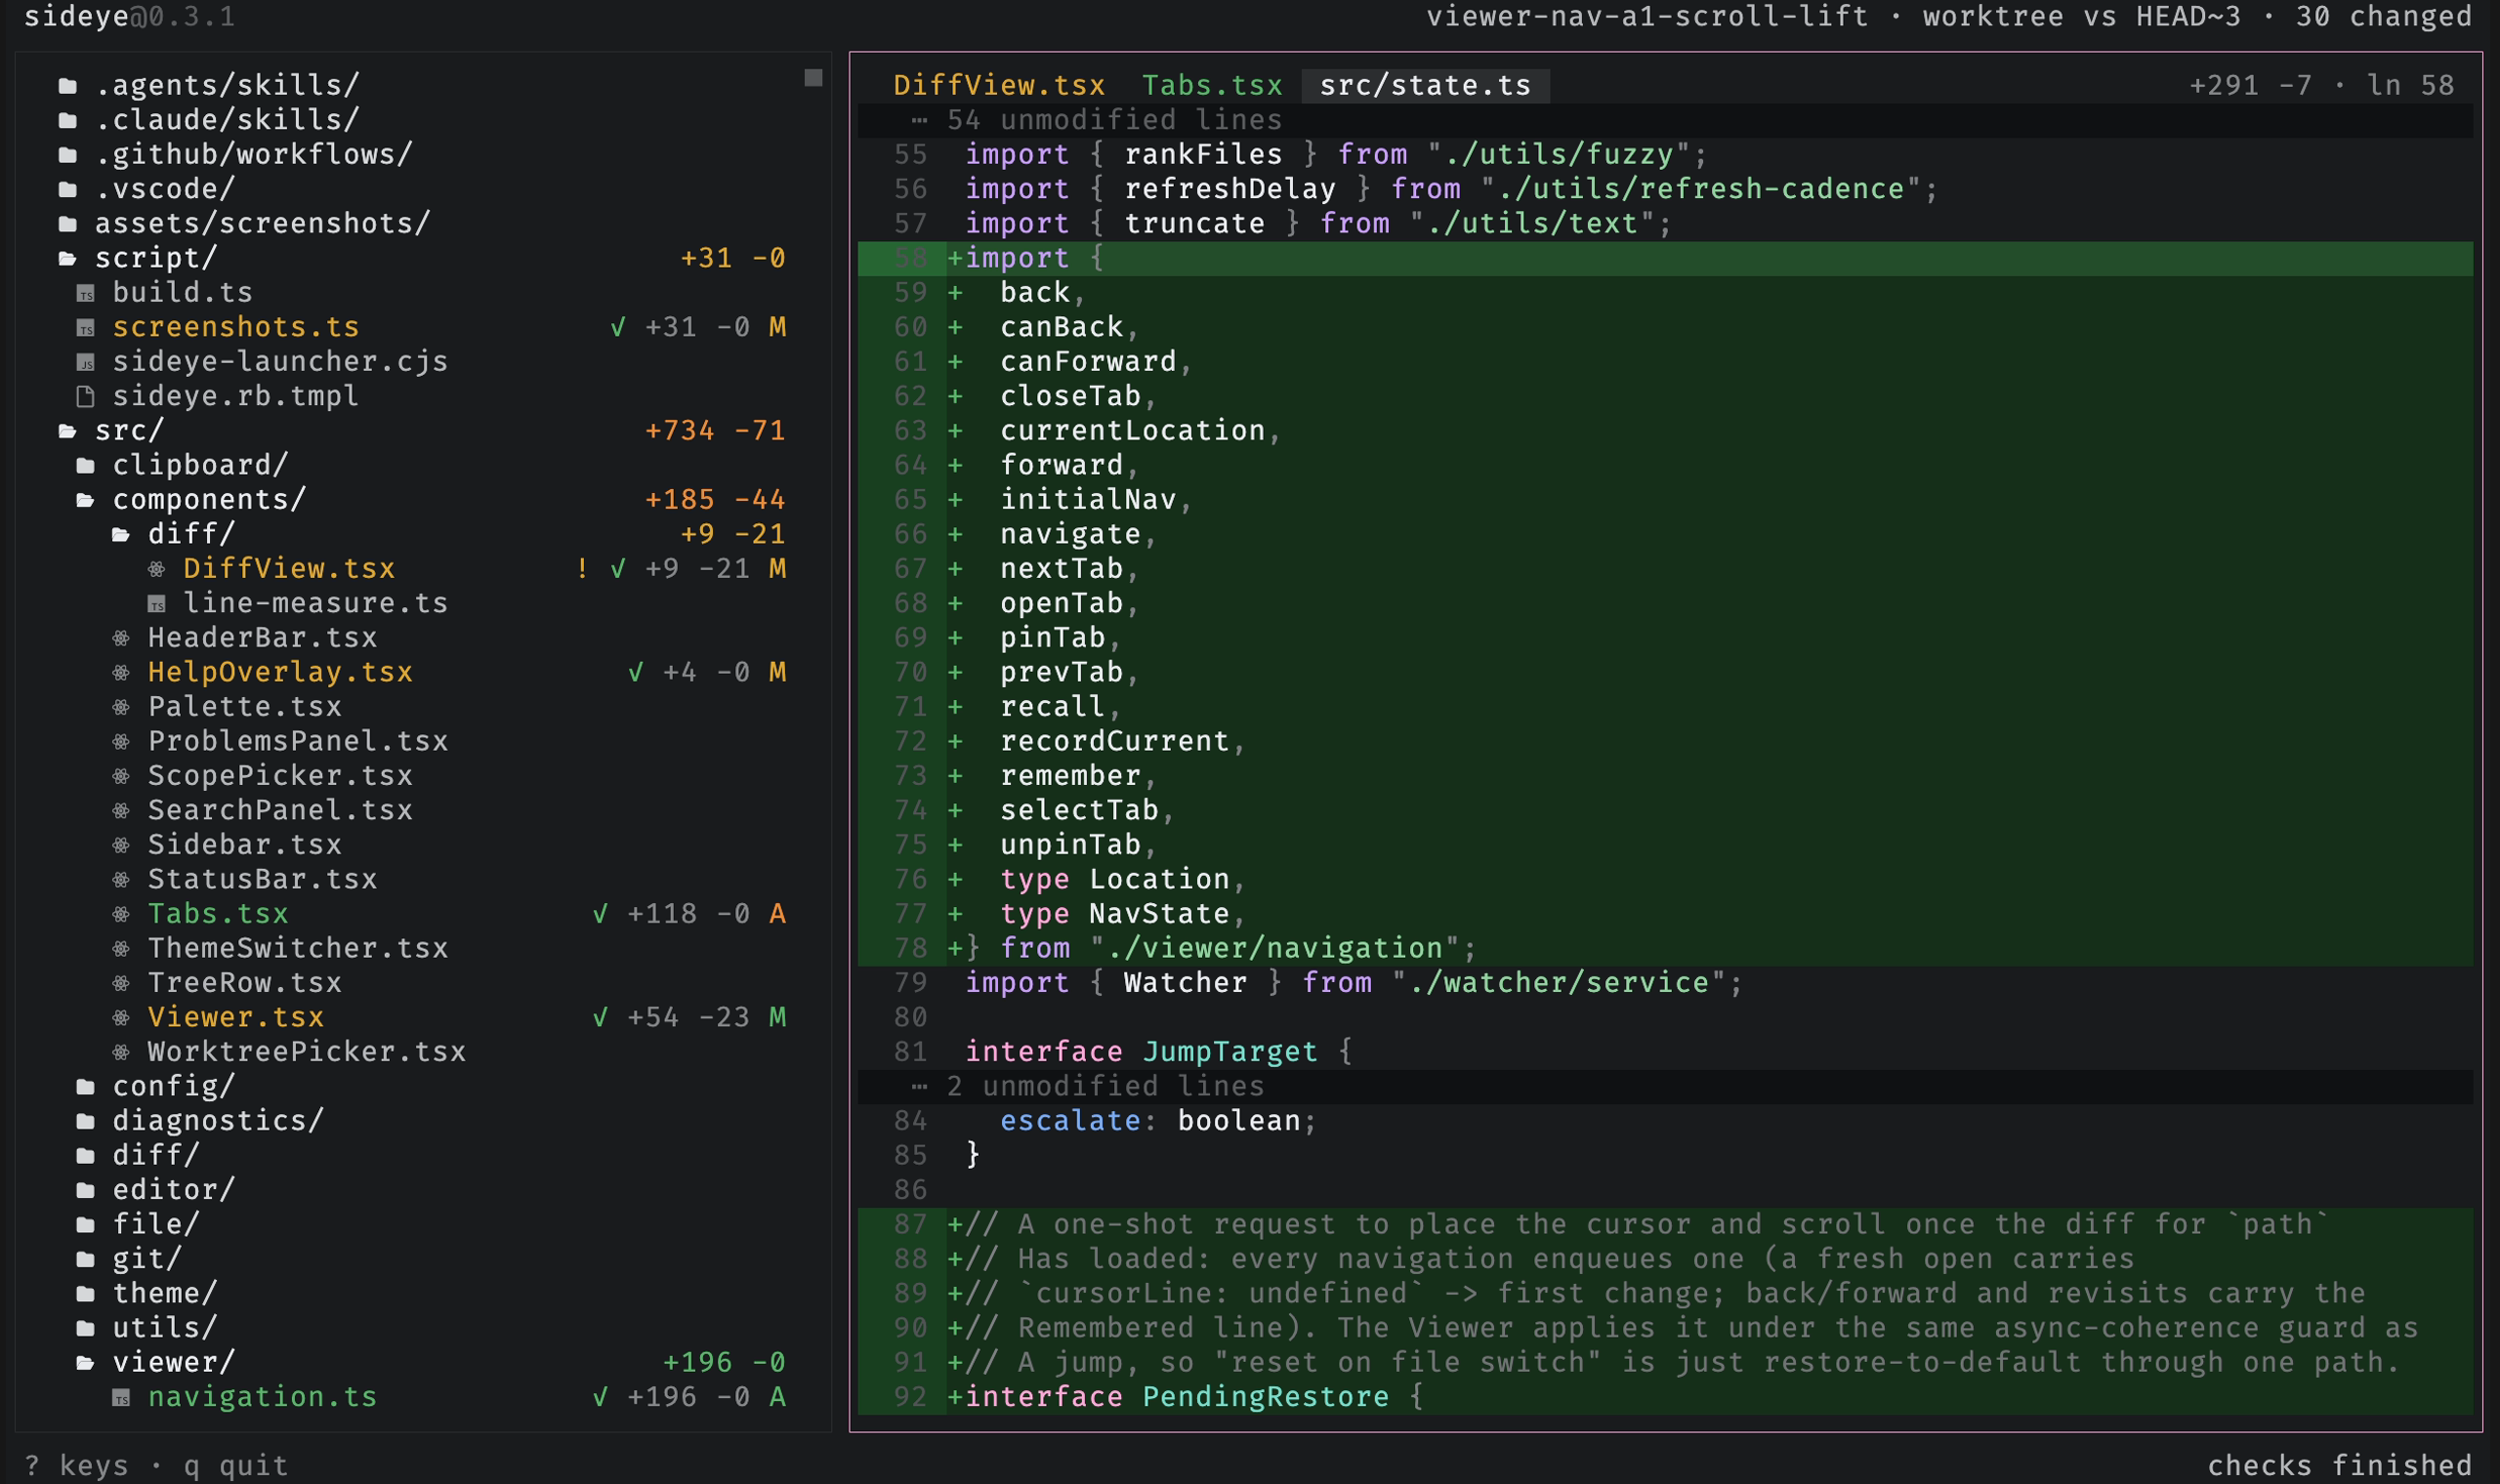
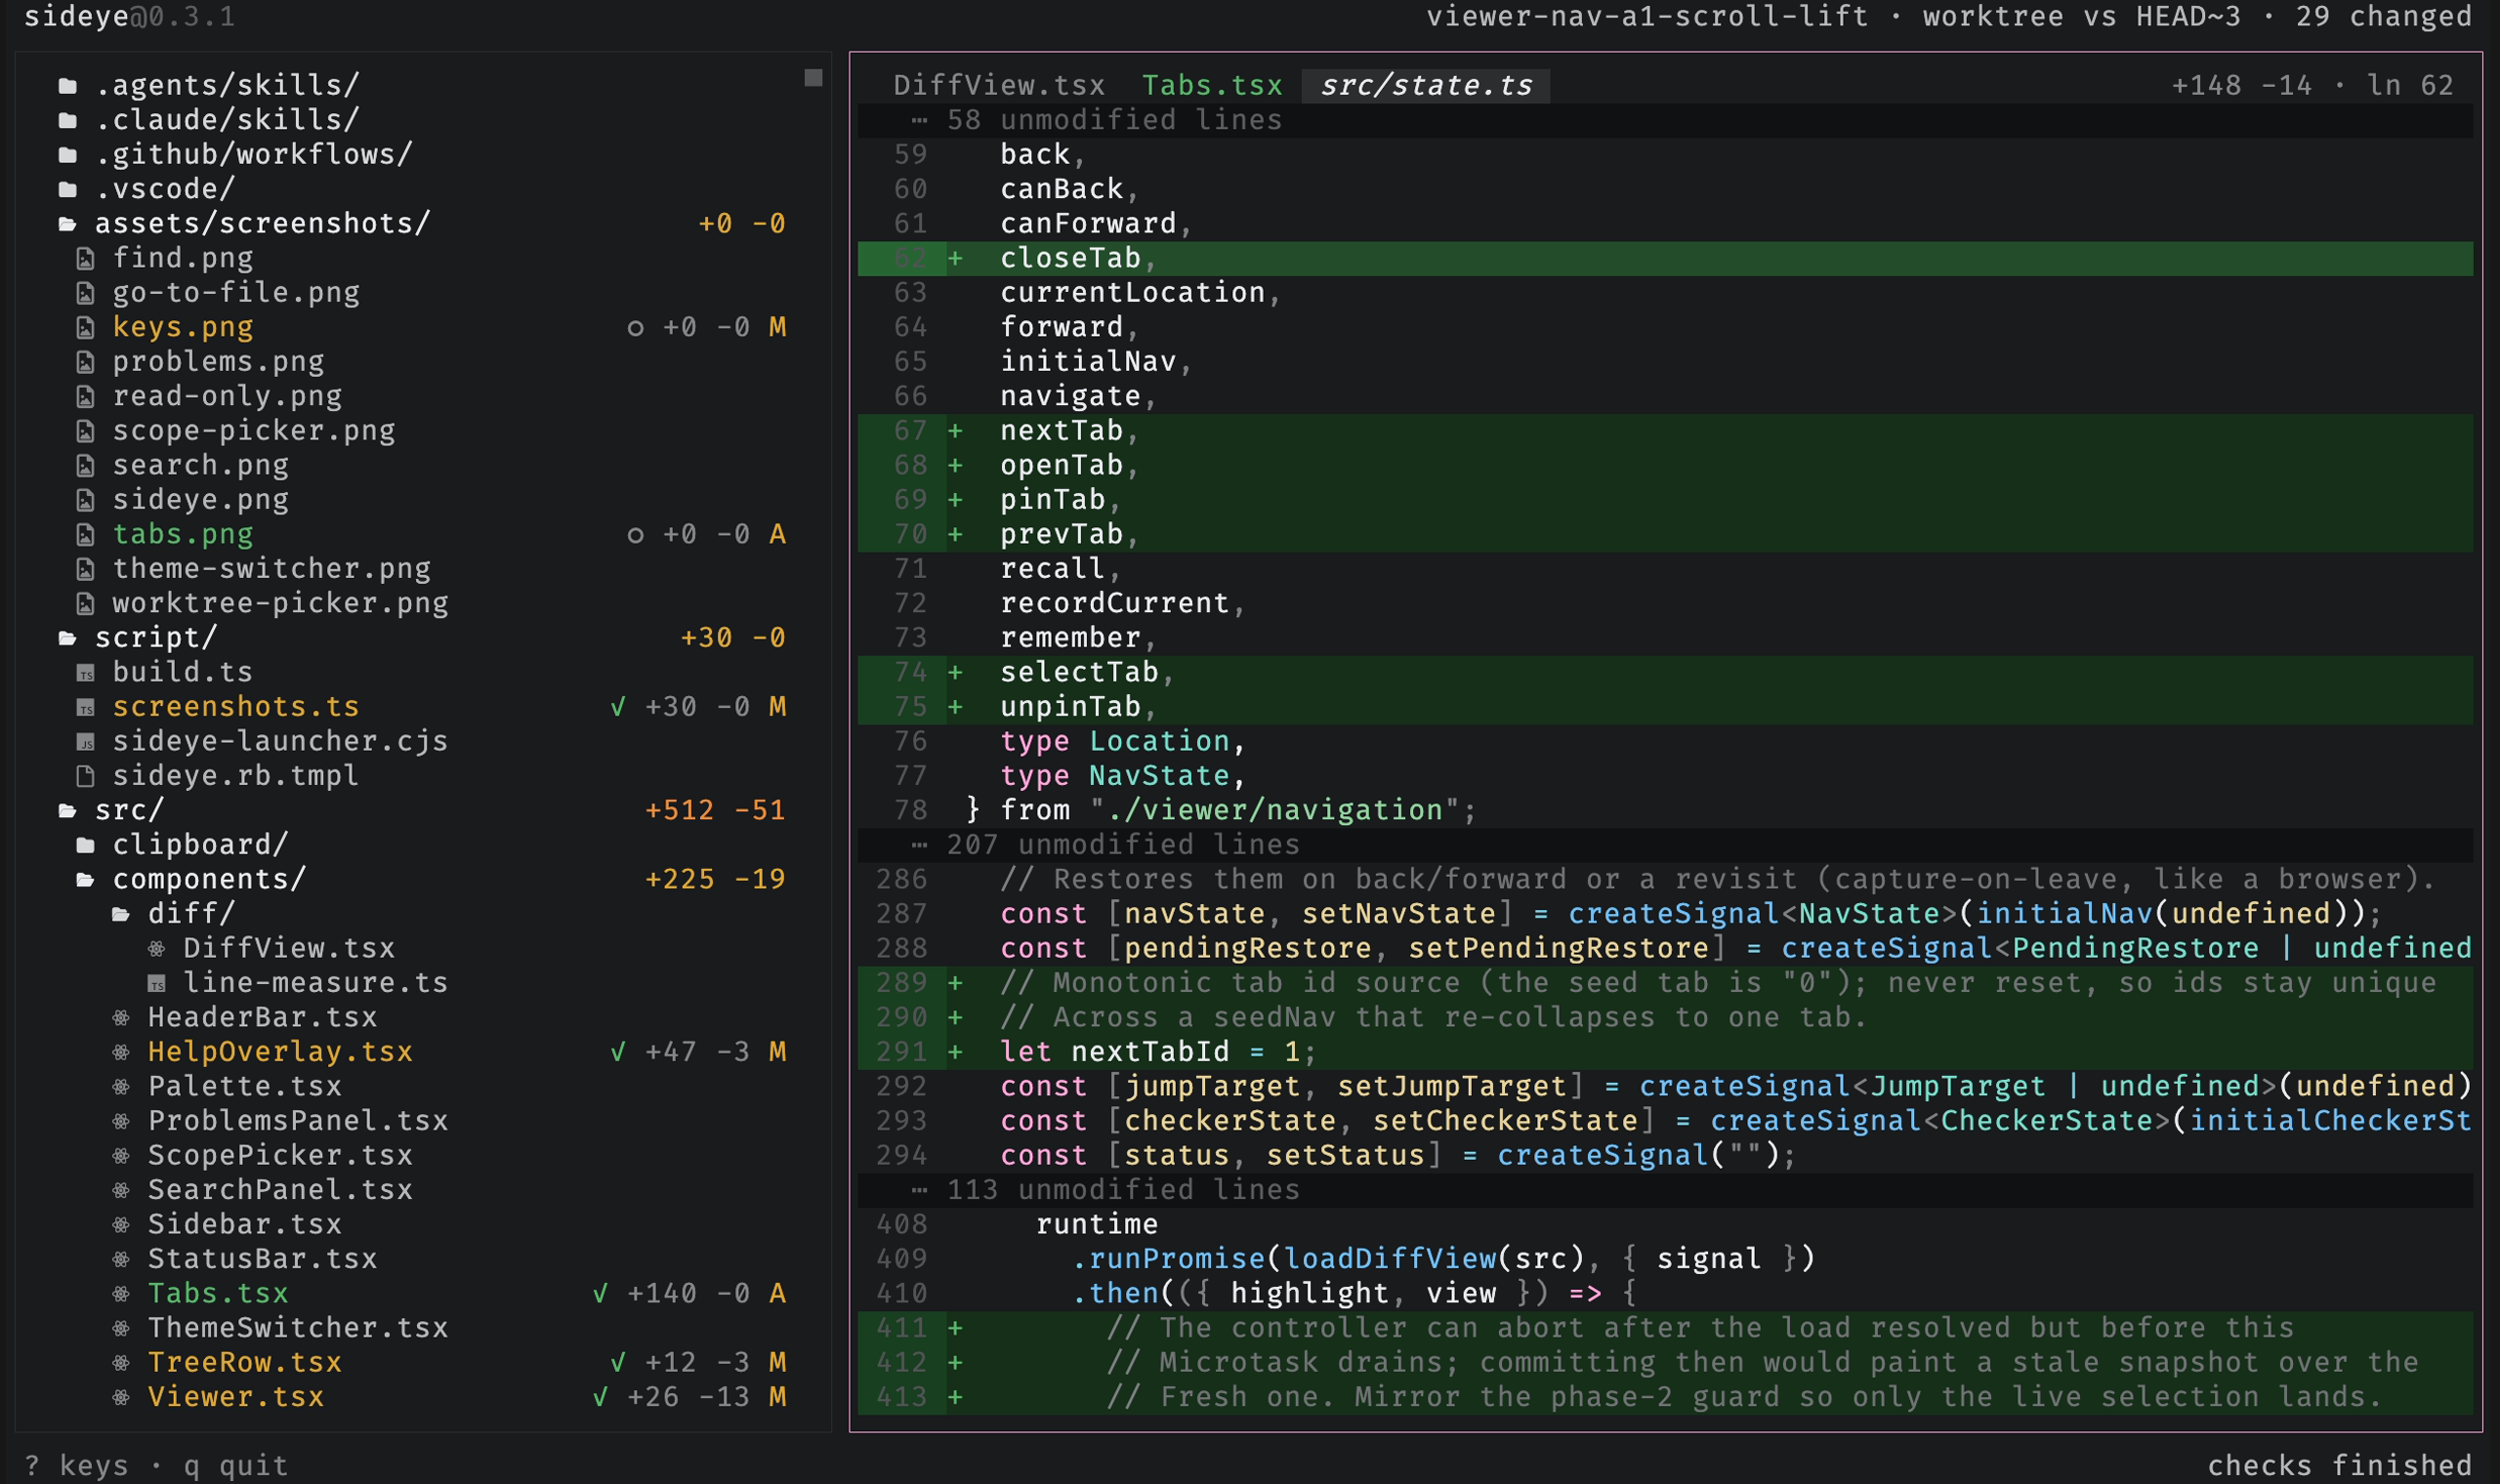
feat(viewer): ✨ double-click to pin, italic preview tab
Double-clicking a tab in the strip or a file in the tree now pins it as
a tab (pin-only, the mouse equivalent of ctrl-t's toggle). OpenTUI has
no double-click event, so a small shared guard detects it from
successive mouse-downs. The ephemeral preview tab now reads italic
instead of dim: italic is the standard ephemeral-tab cue and frees the
color channel so a previewed changed file still shows its diff tint.
Verified the italic at the rendered-cell level (a render test reads the
frame buffer's attributes) alongside the pin behavior, and regenerated
the tabs screenshot.

diff --git a/test/tabs.render.test.tsx b/test/tabs.render.test.tsx
@@ -2,6 +2,7 @@ import { describe, expect, test } from "bun:test";
 import { rmSync, writeFileSync } from "node:fs";
 import { join } from "node:path";
 
+import { createTextAttributes } from "@opentui/core";
 import { createMockMouse } from "@opentui/core/testing";
 import { testRender } from "@opentui/solid";
 
@@ -138,6 +139,138 @@ describe("tabs strip", () => {
       await mouse.doubleClick(diffCol + 1, diffRow);
       await renderOnce();
       expect(renderer.getSelection()).not.toBeNull();
+    } finally {
+      renderer.destroy();
+      rmSync(repoRoot, { force: true, recursive: true });
+    }
+  }, 20_000);
+
+  test("double-clicking a preview tab pins it", async () => {
+    const body = Array.from({ length: 20 }, (_, index) => `const line${index + 1} = ${index + 1}`);
+    const repoRoot = createFixtureRepo("sideye-tabpin-", {
+      "package.json": `${JSON.stringify({ scripts: { lint: "exit 0", typecheck: "exit 0" } })}\n`,
+      "src/a.ts": `${body.join("\n")}\n`,
+      "src/b.ts": `${body.join("\n")}\n`,
+    });
+    writeFileSync(
+      join(repoRoot, "src", "a.ts"),
+      `const aChanged = true\n${body.slice(1).join("\n")}\n`,
+    );
+    writeFileSync(
+      join(repoRoot, "src", "b.ts"),
+      `const bChanged = true\n${body.slice(1).join("\n")}\n`,
+    );
+
+    const model = await loadModel(repoRoot, { kind: "all", ref: "HEAD" });
+    seedState(model, { kind: "all", ref: "HEAD" });
+    const { renderer, renderOnce, captureCharFrame, mockInput, mockMouse } = await testRender(
+      () => <App />,
+      { height: 30, width: 120 },
+    );
+    const settleUntil = makeSettleUntil({ captureCharFrame, renderOnce });
+
+    try {
+      await settleUntil("diff view", (frame) => /ln \d/.test(frame), 5);
+      // Pin a.ts, then preview b.ts so the strip shows [a.ts][src/b.ts].
+      state.selectFile("src/a.ts");
+      mockInput.pressKey("t", { ctrl: true });
+      state.selectFile("src/b.ts");
+      const frame = await settleUntil("two tabs", (f) => f.includes("src/b.ts"));
+
+      const bTab = () => state.tabItems().find((tab) => tab.path === "src/b.ts");
+      expect(bTab()?.preview).toBe(true);
+
+      // Double-click the active preview tab's label to pin it.
+      const lines = frame.split("\n");
+      const rowIndex = lines.findIndex((line) => line.includes("src/b.ts"));
+      const column = lines[rowIndex].indexOf("src/b.ts");
+      await mockMouse.doubleClick(column + 1, rowIndex);
+      await renderOnce();
+
+      expect(bTab()?.preview).toBe(false);
+    } finally {
+      renderer.destroy();
+      rmSync(repoRoot, { force: true, recursive: true });
+    }
+  }, 20_000);
+
+  test("double-clicking a file in the tree pins it as a tab", async () => {
+    const repoRoot = createFixtureRepo("sideye-treepin-", {
+      "package.json": `${JSON.stringify({ scripts: { lint: "exit 0", typecheck: "exit 0" } })}\n`,
+      "src/a.ts": "const a = 1\n",
+      "src/b.ts": "const b = 1\n",
+    });
+    writeFileSync(join(repoRoot, "src", "b.ts"), "const bChanged = 1\n");
+
+    const model = await loadModel(repoRoot, { kind: "all", ref: "HEAD" });
+    seedState(model, { kind: "all", ref: "HEAD" });
+    const { renderer, renderOnce, captureCharFrame, mockMouse } = await testRender(() => <App />, {
+      height: 24,
+      width: 100,
+    });
+    const settleUntil = makeSettleUntil({ captureCharFrame, renderOnce });
+
+    try {
+      const frame = await settleUntil("tree", (f) => f.includes("b.ts"));
+
+      // Locate the b.ts row in the sidebar (left of the pane border).
+      const sidebar = frame.split("\n").map((line) => line.split("││")[0]);
+      const rowIndex = sidebar.findIndex((line) => line.includes("b.ts"));
+      const column = sidebar[rowIndex].indexOf("b.ts");
+      expect(column).toBeGreaterThan(0);
+
+      await mockMouse.doubleClick(column + 1, rowIndex);
+      await settleUntil("b.ts pinned", () => {
+        const tab = state.tabItems().find((item) => item.path === "src/b.ts");
+        return tab !== undefined && !tab.preview;
+      });
+
+      const tab = state.tabItems().find((item) => item.path === "src/b.ts");
+      expect(tab?.preview).toBe(false);
+    } finally {
+      renderer.destroy();
+      rmSync(repoRoot, { force: true, recursive: true });
+    }
+  }, 20_000);
+
+  test("the preview tab renders italic, pinned tabs upright", async () => {
+    const repoRoot = createFixtureRepo("sideye-tabitalic-", {
+      "package.json": `${JSON.stringify({ scripts: { lint: "exit 0", typecheck: "exit 0" } })}\n`,
+      "src/a.ts": "const a = 1\n",
+      "src/b.ts": "const b = 1\n",
+    });
+    writeFileSync(join(repoRoot, "src", "a.ts"), "const aChanged = 1\n");
+    writeFileSync(join(repoRoot, "src", "b.ts"), "const bChanged = 1\n");
+
+    const model = await loadModel(repoRoot, { kind: "all", ref: "HEAD" });
+    seedState(model, { kind: "all", ref: "HEAD" });
+    const { renderer, renderOnce, captureCharFrame, mockInput } = await testRender(() => <App />, {
+      height: 24,
+      width: 100,
+    });
+    const settleUntil = makeSettleUntil({ captureCharFrame, renderOnce });
+
+    try {
+      await settleUntil("diff view", (frame) => /ln \d/.test(frame), 5);
+      // Pin a.ts, preview b.ts -> strip shows the pinned a.ts and the preview b.ts.
+      state.selectFile("src/a.ts");
+      mockInput.pressKey("t", { ctrl: true });
+      state.selectFile("src/b.ts");
+      const frame = await settleUntil("two tabs", (f) => f.includes("src/b.ts"));
+      await renderOnce();
+
+      // Read the actual rendered cell attributes (what the terminal paints).
+      const italic = createTextAttributes({ italic: true });
+      const buffer = renderer.currentRenderBuffer;
+      const attributeAt = (x: number, y: number) => buffer.buffers.attributes[y * buffer.width + x];
+
+      const lines = frame.split("\n");
+      const row = lines.findIndex((line) => line.includes("src/b.ts"));
+      const previewCol = lines[row].indexOf("b.ts");
+      const pinnedCol = lines[row].indexOf("a.ts");
+
+      expect(attributeAt(previewCol, row) & italic).toBe(italic);
+      expect(attributeAt(pinnedCol, row) & italic).toBe(0);
     } finally {
       renderer.destroy();
       rmSync(repoRoot, { force: true, recursive: true });

diff --git a/src/components/Tabs.tsx b/src/components/Tabs.tsx
@@ -1,8 +1,10 @@
+import { createTextAttributes } from "@opentui/core";
 import { batch, createMemo, Index, Show } from "solid-js";
 
 import type { ChangeKind } from "../git/model";
 import { state } from "../state";
 import { useTheme } from "../theme/context";
+import { createDoubleClickGuard } from "../utils/double-click";
 import { truncateLeft, truncateName } from "../utils/text";
 
 // The active tab shows its path (truncated from the left to keep the filename);
@@ -23,18 +25,18 @@ function baseName(path: string) {
 // Active tab is always shown however narrow the viewer.
 export function Tabs() {
   const theme = useTheme();
+  const isDoubleClick = createDoubleClickGuard();
 
-  // Active = selected (on the cursor bg); preview = faint (ephemeral); otherwise a
-  // Changed file's label is tinted by its kind, like the tree, leaving unchanged
-  // Files muted.
-  const labelColor = (cell: { active: boolean; preview: boolean; kind: ChangeKind | undefined }) =>
+  // Active = selected (on the cursor bg); otherwise a changed file's label is
+  // Tinted by its kind, like the tree, leaving unchanged files muted. The preview
+  // (ephemeral) tab is signalled by italic instead, freeing the color channel so
+  // A previewed changed file still shows its diff tint.
+  const labelColor = (cell: { active: boolean; kind: ChangeKind | undefined }) =>
     cell.active
       ? theme.colors.text.selected
-      : cell.preview
-        ? theme.colors.text.faint
-        : cell.kind !== undefined
-          ? theme.colors.kind[cell.kind]
-          : theme.colors.text.muted;
+      : cell.kind !== undefined
+        ? theme.colors.kind[cell.kind]
+        : theme.colors.text.muted;
 
   const layout = createMemo(() => {
     const changed = state.gitModel().changedByPath;
@@ -111,9 +113,20 @@ export function Tabs() {
             // Not content (mirrors Sidebar's focusable ref).
             ref={(el) => (el.selectable = false)}
             backgroundColor={cell().active ? theme.colors.surface.cursor : undefined}
-            onMouseDown={() => batch(() => state.activateTab(cell().id))}
+            onMouseDown={() =>
+              batch(() => {
+                state.activateTab(cell().id);
+                if (isDoubleClick(cell().id)) {
+                  state.pinActiveTab();
+                }
+              })
+            }
           >
-            <text ref={(el) => (el.selectable = false)} fg={labelColor(cell())}>
+            <text
+              ref={(el) => (el.selectable = false)}
+              fg={labelColor(cell())}
+              attributes={createTextAttributes({ italic: cell().preview })}
+            >
               {` ${cell().label} `}
             </text>
           </box>

diff --git a/src/components/TreeRow.tsx b/src/components/TreeRow.tsx
@@ -8,8 +8,13 @@ import { state } from "../state";
 import { useTheme } from "../theme/context";
 import { kindLetter } from "../ui-helpers";
 import { lerpHex } from "../utils/color";
+import { createDoubleClickGuard } from "../utils/double-click";
 import { fileIcon, folderIcon, symlinkIcon } from "../utils/file-icon";
 import { truncate, truncateName } from "../utils/text";
+
+// Shared across rows (each is its own component instance), so a double-click on
+// The same file row pins it, mirroring the tab strip's double-click gesture.
+const isDoubleFileClick = createDoubleClickGuard();
 
 // Fine-grained reactivity replaces React.memo: only the rows whose focus,
 // Selection, or checker state actually change re-evaluate.
@@ -23,15 +28,19 @@ export function TreeRow(props: { row: FileTreeRow }) {
   const contentWidth = () => state.sidebarWidth() - 4;
 
   // Clicking a row reproduces the keyboard outcome for that row: a file selects
-  // And opens (like `enter`); a directory moves the cursor there and toggles its
-  // Expansion (collapsing `l`/`h` into one click). stopPropagation keeps the
-  // Sidebar's focus-only handler from also firing for a row click.
+  // And opens (like `enter`), and double-clicking it pins it as a tab; a directory
+  // Moves the cursor there and toggles its expansion (collapsing `l`/`h` into one
+  // Click). stopPropagation keeps the Sidebar's focus-only handler from also
+  // Firing for a row click.
   const onMouseDown = (event: MouseEvent) => {
     event.stopPropagation();
     batch(() => {
       state.setFocusedPane("tree");
       if (node.type === "file") {
         state.selectFile(node.path);
+        if (isDoubleFileClick(node.path)) {
+          state.pinActiveTab();
+        }
         return;
       }
       state.setFocusedNodeId(node.id);

diff --git a/src/utils/double-click.ts b/src/utils/double-click.ts
@@ -1,0 +1,15 @@
+const DOUBLE_CLICK_MS = 400;
+
+// OpenTUI has no double-click event, so callers detect it themselves from
+// Successive `onMouseDown`s. Each guard tracks the last click's identity and
+// Time; a second click on the same id within the window reads as a double. The
+// Id resets on a double so a third rapid click is not counted as another double.
+export function createDoubleClickGuard() {
+  let last = { at: 0, id: "" };
+  return (id: string) => {
+    const at = Date.now();
+    const isDouble = id === last.id && at - last.at <= DOUBLE_CLICK_MS;
+    last = { at, id: isDouble ? "" : id };
+    return isDouble;
+  };
+}

diff --git a/src/state.ts b/src/state.ts
@@ -812,6 +812,12 @@ function createState() {
     });
   }
 
+  // Pin-only (idempotent): the double-click gesture promotes the active tab and
+  // Never unpins, unlike `ctrl-t`'s toggle. Unpinning stays a keyboard action.
+  function pinActiveTab() {
+    setNavState((nav) => pinTab(nav, nav.activeTabId));
+  }
+
   function cycleTab(direction: number) {
     switchActiveTab((nav) => (direction > 0 ? nextTab(nav) : prevTab(nav)));
   }
@@ -1435,6 +1441,7 @@ function createState() {
     paletteWidth,
     paneHeight,
     pendingRestore,
+    pinActiveTab,
     problemIndex,
     problems,
     problemsOpen,

diff --git a/README.md b/README.md
@@ -87,12 +87,13 @@ supports. Unchanged files open read-only with no diff gutters, just the source.
 
 ### Browse, go back, and pin tabs
 
-Browsing the tree previews files in one calm view, so nothing piles up. `<` and
-`>` step back and forward through where you've been, restoring each spot's cursor
-and scroll. When you want to keep a file while you look at another, `ctrl-t` pins
-it as a tab (and `ctrl-t` again unpins it); `{` / `}` switch tabs and `ctrl-w`
-closes one. Each tab carries its own history and remembered position, and a tab's
-label is tinted by its diff status.
+Browsing the tree previews files in one calm view, so nothing piles up; the
+preview shows in italic to mark it as ephemeral. `<` and `>` step back and forward
+through where you've been, restoring each spot's cursor and scroll. When you want
+to keep a file while you look at another, `ctrl-t` pins it as a tab (and `ctrl-t`
+again unpins it), or double-click the tab or the file in the tree to pin it; `{` /
+`}` switch tabs and `ctrl-w` closes one. Each tab carries its own history and
+remembered position, and a tab's label is tinted by its diff status.
 
 ![tab strip with pinned, diff-status-tinted tabs and the active file](assets/screenshots/tabs.png)
 
@@ -196,7 +197,8 @@ Press `?` anytime to see the full list in the app:
 
 The keyboard drives everything, but the mouse works too. Click a file to open
 it, a folder to expand or collapse it, a diff line to move the cursor there, or
-a problem to jump to it. Clicks also work in the overlays: a go-to-file or
+a problem to jump to it. Double-click a file in the tree, or a tab in the strip,
+to pin it as a tab. Clicks also work in the overlays: a go-to-file or
 search result, a worktree to switch to, or a theme to apply (hovering a theme
 previews it live). Clicking a pane focuses it, and the wheel scrolls whichever
 pane the pointer is over.

diff --git a/SPEC.md b/SPEC.md
@@ -52,11 +52,11 @@ Refresh the tree, diff, and file content while the user watches. A debounced fil
 
 The viewer is a set of tabs, each an ordered history of Locations (a Location is what restores the view: path, cursor file-line, scroll, and the `v`/`f` toggles). The pure model lives in `src/viewer/navigation.ts`; `state` keeps the live signals (`selectedPath`/`cursorIndex`/scroll) as the source of truth and the history as an orthogonal recorder that captures a Location on leave and applies one on arrive.
 
-- **One preview tab.** At most one tab is the ephemeral _preview_ (rendered dim). All navigation — tree browse, jumps, palette, search, problems, `.` recency — targets the preview tab and replaces it in place: continuous tree browsing coalesces into one history entry, a deliberate jump pushes (truncating forward entries, browser semantics). Browsing never spawns or duplicates tabs; this is the calm single-buffer feel by default. The strip renders in the viewer's title row only when more than one tab is open; with one tab the row shows the path.
-- **Pin/unpin (`ctrl-t`).** Toggles the active tab. Pinning the preview makes it persistent and the next navigation opens a fresh preview; unpinning a pinned tab reverts it to the (sole) preview, discarding any stale preview so exactly one exists. Navigating to a file already open in a _pinned_ tab focuses that tab rather than previewing it, so a file is never in both the preview and a pinned tab.
+- **One preview tab.** At most one tab is the ephemeral _preview_ (rendered italic, the standard ephemeral-tab cue, which frees the color channel so a previewed changed file still shows its diff tint). All navigation — tree browse, jumps, palette, search, problems, `.` recency — targets the preview tab and replaces it in place: continuous tree browsing coalesces into one history entry, a deliberate jump pushes (truncating forward entries, browser semantics). Browsing never spawns or duplicates tabs; this is the calm single-buffer feel by default. The strip renders in the viewer's title row only when more than one tab is open; with one tab the row shows the path.
+- **Pin/unpin (`ctrl-t`).** Toggles the active tab. Pinning the preview makes it persistent and the next navigation opens a fresh preview; unpinning a pinned tab reverts it to the (sole) preview, discarding any stale preview so exactly one exists. Navigating to a file already open in a _pinned_ tab focuses that tab rather than previewing it, so a file is never in both the preview and a pinned tab. Double-clicking a tab in the strip or a file in the tree pins it too (pin-only, never unpins, unlike `ctrl-t`'s toggle); OpenTUI has no double-click event, so it is detected from successive mouse-downs.
 - **History and tabs (`<`/`>`, `{`/`}`, `ctrl-w`).** `<`/`>` move back/forward within the _active_ tab's own history (no truncation), restoring that entry's exact cursor and scroll. `{`/`}` cycle tabs with wrap; `ctrl-w` closes the active tab — closing the sole remaining tab reverts it to the preview (a view always exists, so the floor is the ephemeral preview).
 - **Remembered position.** A global per-path MRU viewport (cursor file-line + scroll), shared across tabs, is written on every navigate-away. A _fresh_ visit to a path restores its MRU position; back/forward restore the exact spot recorded on the history entry instead. Cursor is a file line (stable across refreshes); scroll is best-effort.
-- **Coherence.** Scope stays a global lens, never captured per tab or per Location. Refresh and scope changes never reset the history (only a `navigate` resets). A worktree switch resets navigation to a single fresh tab seeded with the new worktree's selected file. The tab strip is chrome (non-selectable); a tab's label is tinted by its file's diff status (kind), with the active tab highlighted and the preview dimmed.
+- **Coherence.** Scope stays a global lens, never captured per tab or per Location. Refresh and scope changes never reset the history (only a `navigate` resets). A worktree switch resets navigation to a single fresh tab seeded with the new worktree's selected file. The tab strip is chrome (non-selectable); a tab's label is tinted by its file's diff status (kind), with the active tab highlighted and the preview italic.
 
 ## Content search
 